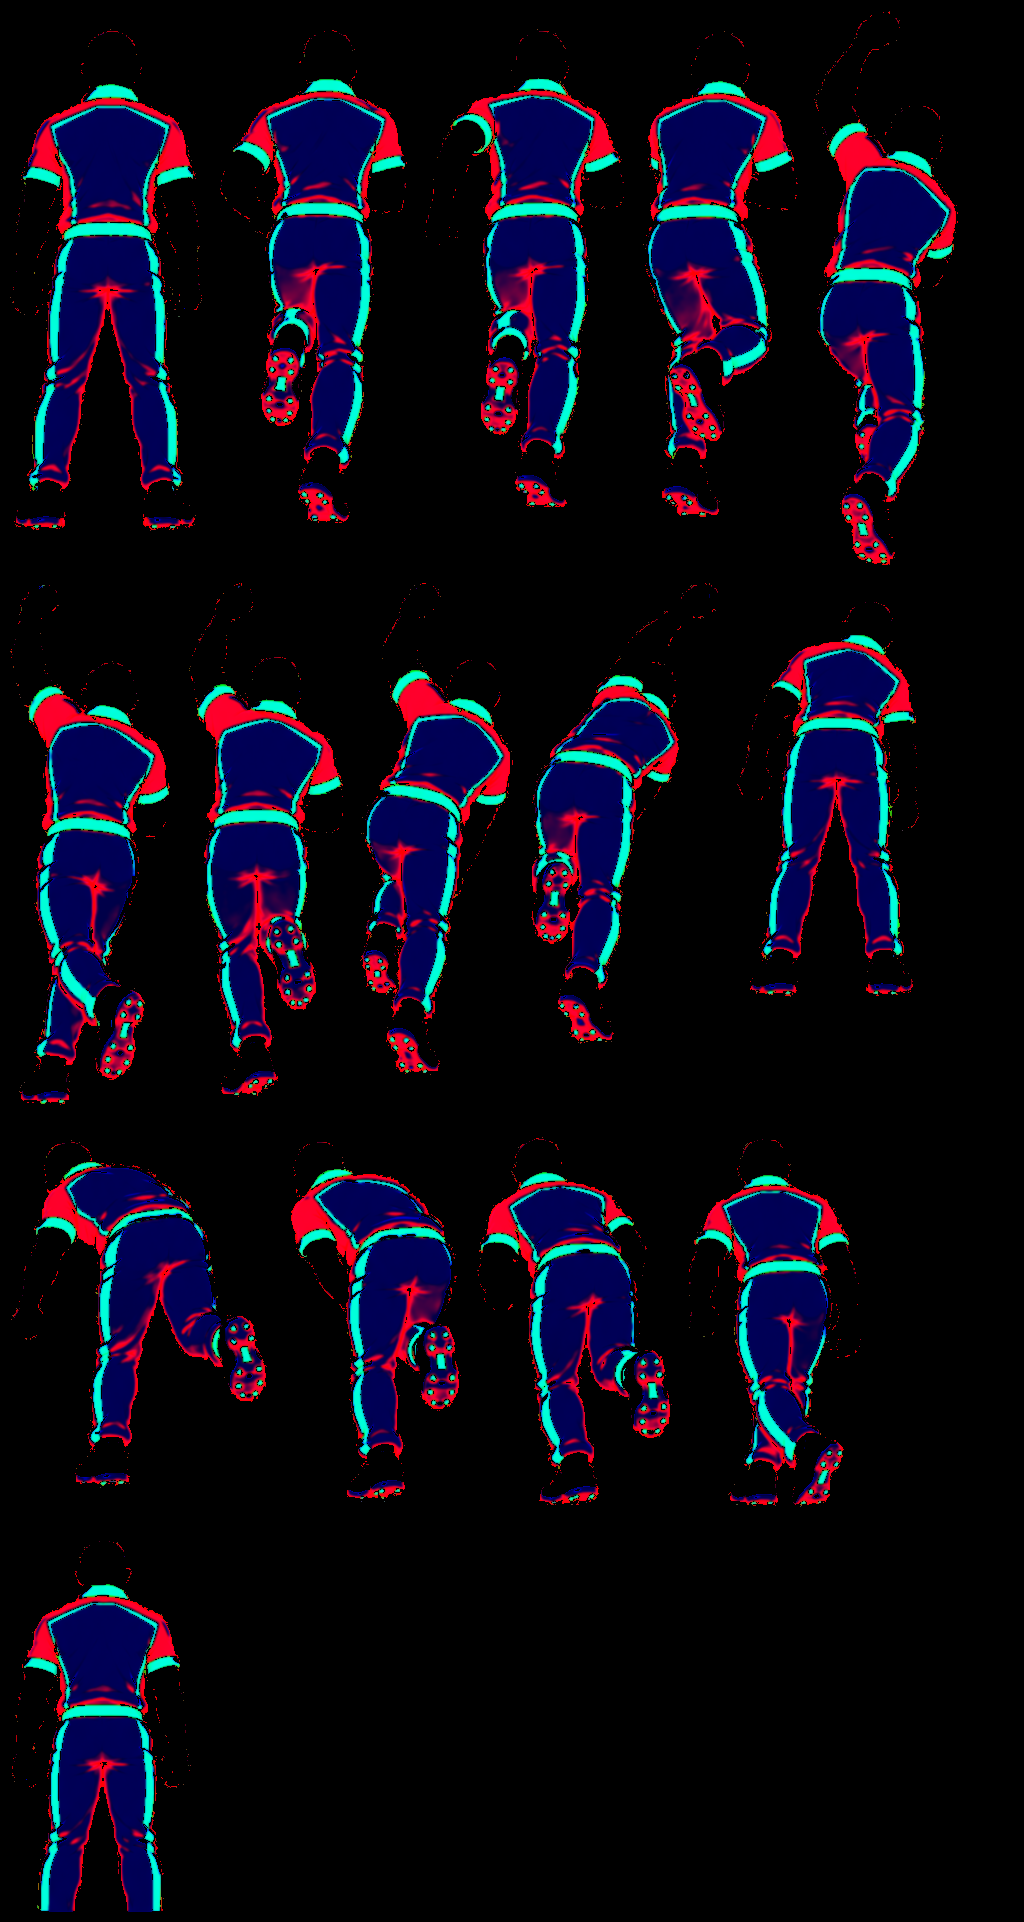
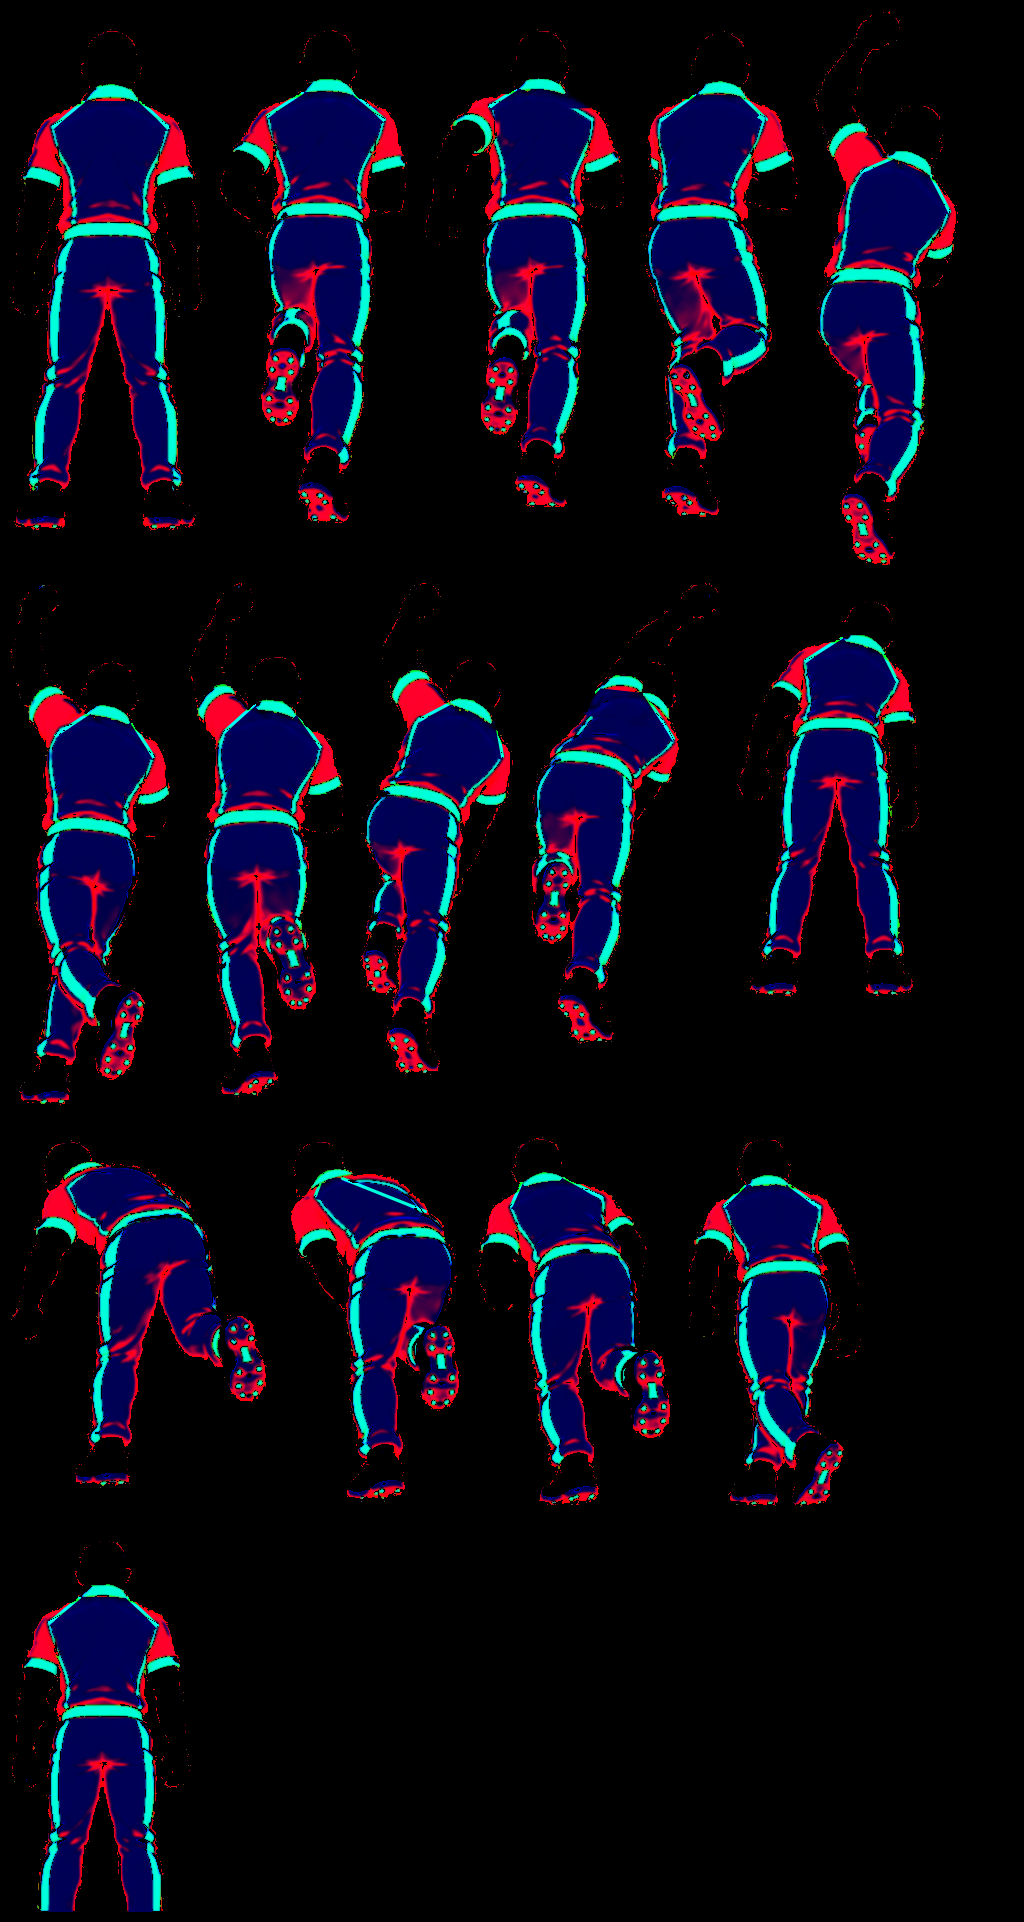
Spinner and fast bowler backs match: main colour up to the collar, piping out to the shoulder blades
The spinner's drawn yoke is repainted away (tools/kit/premium-spin-back.json); the fast bowler's
panel takes the same shape, its corners placed as on the spinner's drawing.

Claude-Session: https://claude.ai/code/session_01NK7tbrKg5PdA6fuyEUPXLd

diff --git a/js/kitsheets.js b/js/kitsheets.js
@@ -2,4 +2,4 @@
 // [x, y, w, h, feet x, feet y] in sheet order; place: the crest (front: [x, y, size, squash x,
 // squash y, tilt]) or the name-and-number print (back: [x, y, width, squash x, squash y, tilt,
 // name dx, dy, number dx, dy]) per frame; shading references for the repaint.
-export const KIT_SHEETS = {"front":{"frames":[[4,4,227,609,115.7,602],[235,4,204,603,108.5,596],[443,4,232,595,100.6,588],[679,4,181,601,90.4,594],[4,617,184,670,98.7,663],[192,617,204,657,107.8,650],[400,617,234,531,161.4,524],[638,617,200,532,104.9,525],[4,1291,201,557,90.7,550],[209,1291,216,579,105.9,572]],"place":[[153,167,36,1,1,0],[377,154,35,1,1,0],[591,154,35,1,1,0],[795,159,32,0.9,1,0],[142,863,31,0.95,1,5],[363,868,31,0.95,1,5],[549,761,34,1,0.85,0],[754,762,31,0.95,0.85,-5],[148,1439,35,1,1,0],[359,1454,36,1,1,0]],"refPx":580,"suit":[0.0376,0.2954,0.587],"trim":[0.5314,0.8456,0.9029],"skin":0.7306,"tones":[0.2955,0.2955,0.8423],"hair":{"beard_full":0.2269,"beard_goatee":0.1998,"beard_long":0.1906,"bun":0.2773,"buzz":0.2963,"cap":0.2815,"curly":0.2799,"dreads":0.2727,"long":0.2593,"messy":0.2999,"part":0.3383,"ponytail":0.2813,"spiky":0.2762},"size":[1024,1874]},"back":{"frames":[[4,4,223,593,111.2,586],[231,4,203,585,111.9,578],[438,4,226,585,125.1,578],[668,4,184,572,61.0,565],[4,601,172,628,61.9,621],[180,601,213,636,106.9,629],[397,601,240,538,146.8,531],[641,601,234,534,104.0,527],[4,1241,213,572,115.0,565],[221,1241,215,586,107.6,579]],"place":[[116.6,158.1,88.0,1.0,1.0,0.4,0,0,0,0],[343.2,149.0,88.0,1.0,1.0,0.8,0,0,0,0],[558.0,148.9,88.0,1.0,1.0,0.0,0,0,0,0],[738,149.2,84.5,0.88,1.0,2,-4,0,-2,0],[95.9,814.9,81.0,0.85,0.95,15.1,0,0,0,0],[306.5,801.6,81.0,0.85,0.95,10.9,0,0,0,0],[502,714.2,86.2,1.0,0.75,-6,0,0,0,0],[741,714.7,86.2,1.0,0.75,-6,0,0,0,0],[117.6,1385.2,88.0,1.0,1.0,0.4,0,0,0,0],[331.2,1393.8,89.8,1.0,1.0,0.8,0,0,0,0]],"refPx":563,"suit":[0.032,0.3087,0.5514],"trim":[0.5231,0.8489,0.9123],"skin":0.7332,"tones":[0.3089,0.3089,0.8455],"hair":{"bun":0.2553,"buzz":0.2918,"cap":0.2709,"curly":0.2702,"dreads":0.2718,"long":0.2647,"messy":0.2757,"part":0.2824,"ponytail":0.2667,"spiky":0.2812},"size":[1024,1831]},"spin-front":{"frames":[[4,4,182,471,90.8,464],[190,4,175,474,103.6,467],[369,4,172,473,91.2,466],[545,4,173,483,87.0,476],[722,4,165,515,62.2,508],[4,523,164,565,80.0,558],[172,523,152,564,71.3,544],[328,523,165,547,53.2,528],[497,523,255,478,85.7,461],[756,523,173,413,62.2,400],[4,1092,264,385,95.9,378],[272,1092,180,405,108.1,398],[456,1092,144,425,76.3,418],[604,1092,179,431,74.7,424],[787,1092,192,438,94.7,431]],"place":[[133,134,26,1,1,0],[324,133,24,1,1,0],[503,130,24,1,1,0],[663,127,24,1,1,0],[848,180,24,1,1,0],[145,711,22,0.9,1,0],[268,717,21,0.9,1,0],[456,715,21,0.9,1,0],[646,705,20,0.9,0.9,10],[872,632,20,0.9,0.85,0],[118,1191,19,0.9,0.85,0],[368,1192,21,1,0.9,0],[524,1199,22,1,0.95,0],[728,1206,26,1,1,0],[918,1204,26,1,1,0]],"refPx":441,"suit":[0.0299,0.3355,0.4715],"trim":[0.548,0.8593,0.9122],"skin":0.7273,"tones":[0.341,0.154,0.8608],"hair":{"beard_full":0.1972,"beard_goatee":0.2001,"beard_long":0.2064,"bun":0.2433,"buzz":0.241,"cap":0.2898,"curly":0.2653,"dreads":0.2535,"long":0.2468,"messy":0.2721,"part":0.2843,"ponytail":0.2781,"spiky":0.2609},"size":[1024,1534]},"spin-back":{"frames":[[4,4,205,533,100.3,526],[213,4,201,526,110.7,519],[418,4,214,510,122.2,503],[636,4,168,520,54.4,513],[808,4,157,568,64.3,561],[4,576,174,536,56.4,529],[182,576,168,528,67.2,521],[354,576,165,520,59.7,498],[523,576,204,489,64.8,467],[731,576,195,427,99.9,420],[4,1116,270,378,98.4,371],[278,1116,189,392,97.5,385],[471,1116,207,396,98.1,389],[682,1116,185,397,98.2,390],[4,1517,193,401,95.6,394]],"place":[[110,150,72.0,1,1,0,0,0,0,0],[326,138,72.0,1,1,0,0,0,0,0],[539,138,72.0,0.95,1,0,0,0,0,0],[711,141,72.0,0.95,1,11,0,0,0,0],[894,208,72.0,0.95,1,5,0,0,0,0],[100,760,72.0,0.95,1,10,0,0,0,0],[266,753,72.0,0.95,1,10,0,0,0,0],[451,742,72.0,0.95,0.95,18,0,0,0,0],[637,718,72.0,0.95,0.8,20,0,0,0,0],[853,677,72.0,0.95,0.8,12,0,0,0,0],[115,1188,72.0,1,0.7,-6,0,0,0,0],[362,1201,72.0,1,0.75,-10,0,0,0,0],[558,1210,72.0,1,0.85,-6,0,0,0,0],[773,1218,72.0,1,1,0,0,0,0,0],[104,1643,72.0,1,1,0,0,0,0,0]],"refPx":502,"suit":[0.0255,0.3304,0.4621],"trim":[0.5425,0.8472,0.9129],"skin":0.735,"tones":[0.3359,0.1507,0.8497],"hair":{"bun":0.2768,"buzz":0.2522,"cap":0.3009,"curly":0.2524,"dreads":0.3474,"long":0.2919,"messy":0.2526,"part":0.2321,"ponytail":0.2864,"spiky":0.2346},"size":[1024,1922]}};
+export const KIT_SHEETS = {"front":{"frames":[[4,4,227,609,115.7,602],[235,4,204,603,108.5,596],[443,4,232,595,100.6,588],[679,4,181,601,90.4,594],[4,617,184,670,98.7,663],[192,617,204,657,107.8,650],[400,617,234,531,161.4,524],[638,617,200,532,104.9,525],[4,1291,201,557,90.7,550],[209,1291,216,579,105.9,572]],"place":[[153,167,36,1,1,0],[377,154,35,1,1,0],[591,154,35,1,1,0],[795,159,32,0.9,1,0],[142,863,31,0.95,1,5],[363,868,31,0.95,1,5],[549,761,34,1,0.85,0],[754,762,31,0.95,0.85,-5],[148,1439,35,1,1,0],[359,1454,36,1,1,0]],"refPx":580,"suit":[0.0376,0.2954,0.587],"trim":[0.5314,0.8456,0.9029],"skin":0.7306,"tones":[0.2955,0.2955,0.8423],"hair":{"beard_full":0.2269,"beard_goatee":0.1998,"beard_long":0.1906,"bun":0.2773,"buzz":0.2963,"cap":0.2815,"curly":0.2799,"dreads":0.2727,"long":0.2593,"messy":0.2999,"part":0.3383,"ponytail":0.2813,"spiky":0.2762},"size":[1024,1874]},"back":{"frames":[[4,4,223,593,111.2,586],[231,4,203,585,111.9,578],[438,4,226,585,125.1,578],[668,4,184,572,61.0,565],[4,601,172,628,61.9,621],[180,601,213,636,106.9,629],[397,601,240,538,146.8,531],[641,601,234,534,104.0,527],[4,1241,213,572,115.0,565],[221,1241,215,586,107.6,579]],"place":[[116.6,158.1,88.0,1.0,1.0,0.4,0,0,0,0],[343.2,149.0,88.0,1.0,1.0,0.8,0,0,0,0],[558.0,148.9,88.0,1.0,1.0,0.0,0,0,0,0],[738,149.2,84.5,0.88,1.0,2,-4,0,-2,0],[95.9,814.9,81.0,0.85,0.95,15.1,0,0,0,0],[306.5,801.6,81.0,0.85,0.95,10.9,0,0,0,0],[502,714.2,86.2,1.0,0.75,-6,0,0,0,0],[741,714.7,86.2,1.0,0.75,-6,0,0,0,0],[117.6,1385.2,88.0,1.0,1.0,0.4,0,0,0,0],[331.2,1393.8,89.8,1.0,1.0,0.8,0,0,0,0]],"refPx":563,"suit":[0.032,0.3087,0.5514],"trim":[0.5231,0.8489,0.9123],"skin":0.7332,"tones":[0.3087,0.3087,0.8455],"hair":{"bun":0.2553,"buzz":0.2918,"cap":0.2709,"curly":0.2702,"dreads":0.2718,"long":0.2647,"messy":0.2757,"part":0.2824,"ponytail":0.2667,"spiky":0.2812},"size":[1024,1831]},"spin-front":{"frames":[[4,4,182,471,90.8,464],[190,4,175,474,103.6,467],[369,4,172,473,91.2,466],[545,4,173,483,87.0,476],[722,4,165,515,62.2,508],[4,523,164,565,80.0,558],[172,523,152,564,71.3,544],[328,523,165,547,53.2,528],[497,523,255,478,85.7,461],[756,523,173,413,62.2,400],[4,1092,264,385,95.9,378],[272,1092,180,405,108.1,398],[456,1092,144,425,76.3,418],[604,1092,179,431,74.7,424],[787,1092,192,438,94.7,431]],"place":[[133,134,26,1,1,0],[324,133,24,1,1,0],[503,130,24,1,1,0],[663,127,24,1,1,0],[848,180,24,1,1,0],[145,711,22,0.9,1,0],[268,717,21,0.9,1,0],[456,715,21,0.9,1,0],[646,705,20,0.9,0.9,10],[872,632,20,0.9,0.85,0],[118,1191,19,0.9,0.85,0],[368,1192,21,1,0.9,0],[524,1199,22,1,0.95,0],[728,1206,26,1,1,0],[918,1204,26,1,1,0]],"refPx":441,"suit":[0.0299,0.3355,0.4715],"trim":[0.548,0.8593,0.9122],"skin":0.7273,"tones":[0.341,0.154,0.8608],"hair":{"beard_full":0.1972,"beard_goatee":0.2001,"beard_long":0.2064,"bun":0.2433,"buzz":0.241,"cap":0.2898,"curly":0.2653,"dreads":0.2535,"long":0.2468,"messy":0.2721,"part":0.2843,"ponytail":0.2781,"spiky":0.2609},"size":[1024,1534]},"spin-back":{"frames":[[4,4,205,533,100.3,526],[213,4,201,526,110.7,519],[418,4,214,510,122.2,503],[636,4,168,520,54.4,513],[808,4,157,568,64.3,561],[4,576,174,536,56.4,529],[182,576,168,528,67.2,521],[354,576,165,520,59.7,498],[523,576,204,489,64.8,467],[731,576,195,427,99.9,420],[4,1116,270,378,98.4,371],[278,1116,189,392,97.5,385],[471,1116,207,396,98.1,389],[682,1116,185,397,98.2,390],[4,1517,193,401,95.6,394]],"place":[[110,150,72.0,1,1,0,0,0,0,0],[326,138,72.0,1,1,0,0,0,0,0],[539,138,72.0,0.95,1,0,0,0,0,0],[711,141,72.0,0.95,1,11,0,0,0,0],[894,208,72.0,0.95,1,5,0,0,0,0],[100,760,72.0,0.95,1,10,0,0,0,0],[266,753,72.0,0.95,1,10,0,0,0,0],[451,742,72.0,0.95,0.95,18,0,0,0,0],[637,718,72.0,0.95,0.8,20,0,0,0,0],[853,677,72.0,0.95,0.8,12,0,0,0,0],[115,1188,72.0,1,0.7,-6,0,0,0,0],[362,1201,72.0,1,0.75,-10,0,0,0,0],[558,1210,72.0,1,0.85,-6,0,0,0,0],[773,1218,72.0,1,1,0,0,0,0,0],[104,1643,72.0,1,1,0,0,0,0,0]],"refPx":502,"suit":[0.0255,0.3304,0.4621],"trim":[0.5425,0.8472,0.9129],"skin":0.735,"tones":[0.3359,0.1507,0.8497],"hair":{"bun":0.2768,"buzz":0.2522,"cap":0.3009,"curly":0.2524,"dreads":0.3474,"long":0.2919,"messy":0.2526,"part":0.2321,"ponytail":0.2864,"spiky":0.2346},"size":[1024,1922]}};

diff --git a/tools/build_kit_sheets.py b/tools/build_kit_sheets.py
@@ -88,16 +88,59 @@ def paint_design(a, design, off, pipe=3.2):
         above = (yy - wly) * (wrx - wlx) - (xx - wlx) * (wry - wly) < 0
         cx, cy = int(np.mean([p[0] for p in P])), int(np.mean([p[1] for p in P]))
         shirt = suit[sl] & above & (lab[sl] == lab[cy, cx])
+        if f.get('yoke'):
+            # the spinner's shape: from each collar end out to a corner at the shoulder blades
+            (ylx, yly), (yrx, yry) = [(x + off, y + off) for x, y in f['yoke']]
+            P = [P[0], P[1], (yrx, yry), P[3], P[4], (ylx, yly)]
         local = [(x - x0, y - y0) for x, y in P]
         inside = coverage(local, shirt.shape)
-        segs = [(local[1], local[2]), (local[2], local[3]), (local[4], local[5]), (local[5], local[0])] + ([(local[0], local[1])] if f.get('top') else [])
+        n = len(local)
+        segs = [(local[i], local[(i + 1) % n]) for i in range(1, n) if not (n == 6 and i == 3) and not (n == 8 and i == 4)] + ([(local[0], local[1])] if f.get('top') else [])
         p = np.clip(pipe / 2 + 0.5 - seg_dist(shirt.shape, segs), 0, 1) * shirt
         navy[sl] = np.maximum(navy[sl], shirt * (1 - inside) * (1 - p))
         pip[sl] = np.maximum(pip[sl], p)
     return navy, pip
 
 
-def tones(a, design=None, off=0):
+def rework_yoke(a, kit, w, Ls, ref, marks, off, pipe=3.2):
+    """a drawn premium back with a yoke, repainted to the pace design: inside the band between the
+    collar and the yoke corners the cloth becomes the main colour (its brightness rescaled to the
+    main colour's), and piping runs from each collar end to the yoke corner"""
+    H_, S_, V_ = hsv(a[..., :3])
+    yel = kit & (H_ > 38) & (H_ < 72) & (S_ > 0.45)
+    thick = ndi.binary_dilation(ndi.binary_opening(yel, iterations=3), iterations=3) & yel  # collar, cuffs, belt
+    cloth = kit & ~thick
+    # (the old piping's anti-aliased edges are no kit colour: taken in with the cloth around them)
+    edge = (a[..., 3] > 0.3) & ~kit & ndi.binary_dilation(cloth, iterations=2) & ~masks(a)[2]
+    rm, rn, ry = ref
+    to_main = w[..., 0] + w[..., 1] * rm / rn + w[..., 2] * rm / ry
+    to_pipe = w[..., 0] * ry / rm + w[..., 1] * ry / rn + w[..., 2]
+    for m in marks.values():
+        (cl, cr), (yl, yr) = [[(x + off, y + off) for x, y in m[k]] for k in ('collar', 'yoke')]
+        x0, x1 = int(min(cl[0], yl[0])) - 12, int(max(cr[0], yr[0])) + 12
+        y0, y1 = int(min(cl[1], cr[1])) - 12, int(max(yl[1], yr[1])) + 12
+        sl = (slice(y0, y1), slice(x0, x1))
+        loc = lambda p: (p[0] - x0, p[1] - y0)
+        shape = (y1 - y0, x1 - x0)
+        poly = coverage([loc(cl), loc(cr), loc((yr[0], yr[1] + 4)), loc((yl[0], yl[1] + 4))], shape)
+        kit[sl] |= (poly > 0.5) & edge[sl]
+        cl_ = cloth[sl] | ((poly > 0.5) & edge[sl])
+        band = poly * cl_
+        p = np.clip(pipe / 2 + 0.5 - seg_dist(shape, [(loc(cl), loc(yl)), (loc(cr), loc(yr))]), 0, 1) * cl_
+        band *= 1 - p
+        ws = w[sl]
+        new = ws * (1 - band - p)[..., None]
+        new[..., 0] += band; new[..., 2] += p
+        conv = np.where(cloth[sl], Ls[sl] * to_main[sl], 0)
+        # brightness across the band from the cloth around each pixel (no trace of the old line)
+        num, den = ndi.gaussian_filter(conv, 1.4), ndi.gaussian_filter(cloth[sl].astype(np.float32), 1.4)
+        smooth = num / np.maximum(den, 1e-3)
+        Ls[sl] = Ls[sl] * (1 - band - p) + smooth * band + Ls[sl] * to_pipe[sl] * p
+        w[sl] = new
+    return w, Ls, kit
+
+
+def tones(a, design=None, off=0, marks=None):
     """soft class weights (navy, yellow; main = the rest) and lightly smoothed brightness. A sheet
     drawn in the premium kit is read as drawn; a plain one gets the design painted on (design)."""
     H, S, V = hsv(a[..., :3])
@@ -123,6 +166,8 @@ def tones(a, design=None, off=0):
     w = ndi.gaussian_filter(w, (0.8, 0.8, 0))
     w /= w.sum(-1, keepdims=True) + 1e-6
     ref = [round(float(np.median(L[kit & (w[..., k] > 0.8)])), 4) for k in range(3)]
+    if marks:
+        w, Ls, kit = rework_yoke(a, kit, w, Ls, ref, marks, off)
     return kit, w, Ls, ref
 
 
@@ -167,7 +212,7 @@ def frames_of(a, count=10, rowh=600):
     return lab, [(i + 1, boxes[i]) for i in big]
 
 
-def build(view, sheet, hairpaths, place, count=10, rowh=600, premium=False, design=None):
+def build(view, sheet, hairpaths, place, count=10, rowh=600, premium=False, design=None, marks=None):
     # (a margin all round, so a pose at the sheet's edge can still be cut with padding)
     M = 60
     a = np.pad(keyed(sheet) / 255, ((M, M), (M, M), (0, 0)))
@@ -176,7 +221,7 @@ def build(view, sheet, hairpaths, place, count=10, rowh=600, premium=False, desi
     suit, trim, skin = masks(a)
     L = a[..., :3] @ LUM
     if premium:
-        kit, tw, tL, tref = tones(a, design, M)
+        kit, tw, tL, tref = tones(a, design, M, marks)
     lab, frames = frames_of(a, count, rowh)
     # each pixel belongs to the nearest pose (hair close to two poses goes to its own head only)
     dist, (iy, ix) = ndi.distance_transform_edt(lab == 0, return_indices=True)
@@ -281,7 +326,8 @@ def main():
     if len(sys.argv) > 5:
         sp = json.load(open('tools/kit/shirt-print-spin-back.json'))['frames']
         out['spin-back'] = build('spin-back', sys.argv[5], hp('spin-back'),
-                                 [sp[str(k + 1)]['print'] + sp[str(k + 1)]['name'] + sp[str(k + 1)]['number'] for k in range(15)], 15, 500, premium=True)
+                                 [sp[str(k + 1)]['print'] + sp[str(k + 1)]['name'] + sp[str(k + 1)]['number'] for k in range(15)], 15, 500, premium=True,
+                                 marks={k: v for k, v in json.load(open('tools/kit/premium-spin-back.json')).items() if not k.startswith('_')})
     with open('js/kitsheets.js', 'w') as f:
         f.write('// The plain-kit bowler sheets in img/kit/ (tools/build_kit_sheets.py). Per view: frames\n'
                 '// [x, y, w, h, feet x, feet y] in sheet order; place: the crest (front: [x, y, size, squash x,\n'
